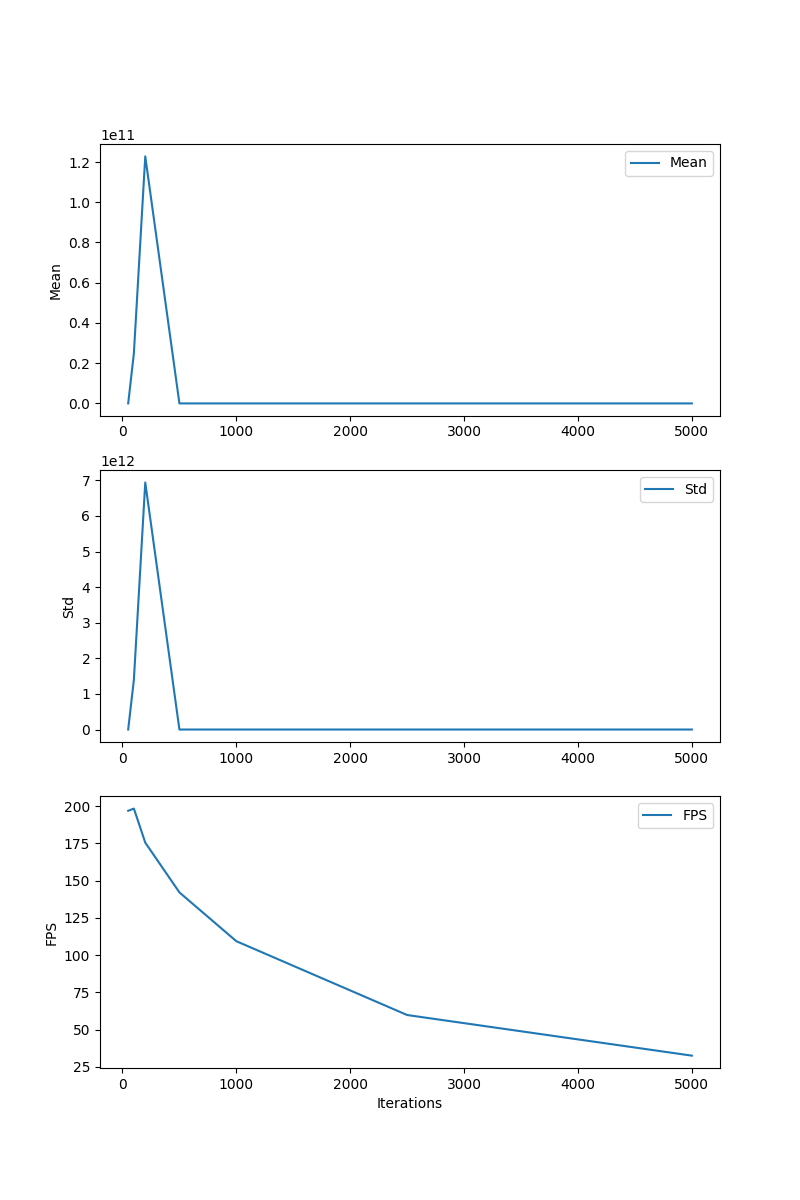
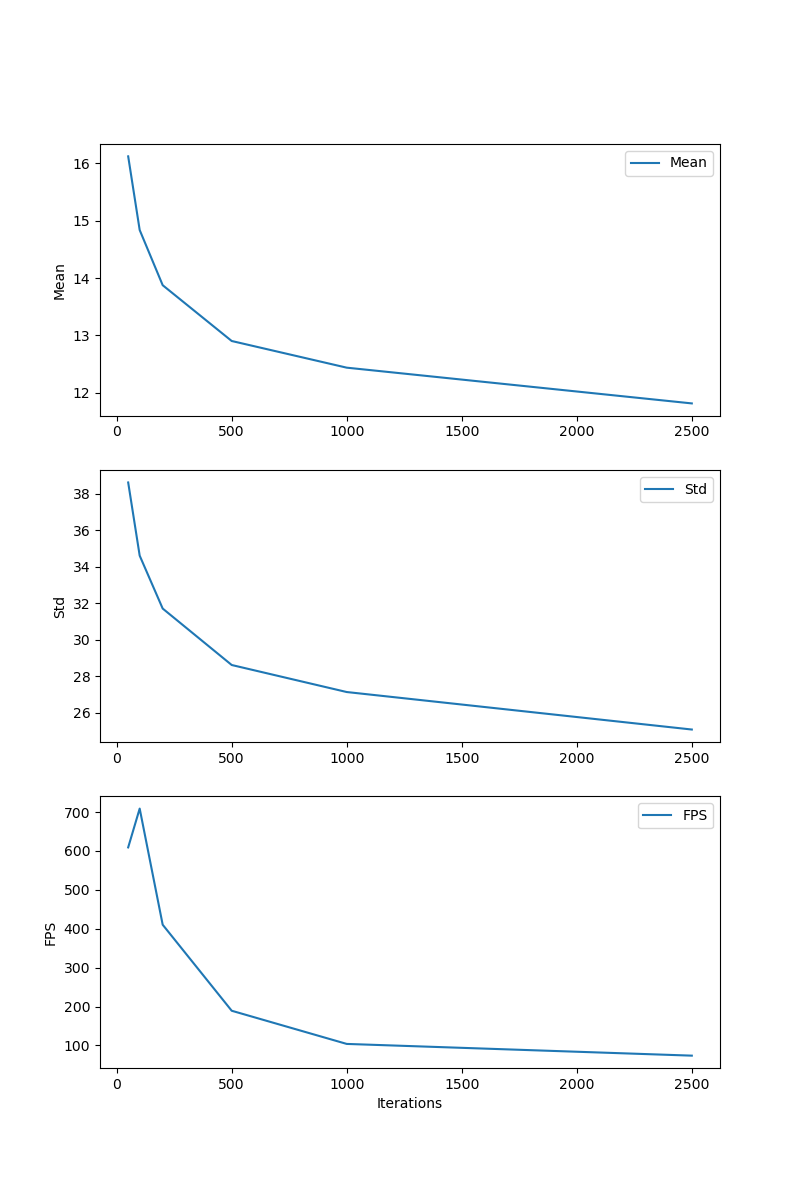
Update RANSAC algorithm and test.py

diff --git a/frontend_test/ransac.py b/frontend_test/ransac.py
@@ -60,21 +60,30 @@ def random_centerest(xyz, radial_list, iterations, debug=False):
     
     return best_vote
 
-@njit
-def accumulate_inliers(xyz, radial_list, iterations, best_vote, error):
-    xyz_inliers = []
-    radial_list_inliers = []
 
-    for itr in range(iterations):
-        i = random.randint(0, len(xyz) - 1)
+
+@njit(parallel=True)
+def accumulate_inliers(xyz, radial_list, iterations, best_vote, error, max_inliers=200):
+    xyz_inliers = np.zeros((max_inliers, 3))  
+    radial_list_inliers = np.zeros(max_inliers)
+    inlier_count = 0
+
+    indexes = np.arange(len(xyz))
+    np.random.shuffle(indexes)
+
+    for itr in prange(iterations):
+        if inlier_count >= max_inliers:
+            break  
+        i = indexes[itr % len(xyz)]
         p = xyz[i]
         r = radial_list[i]
         dist = np.sqrt((p[0] - best_vote[1]) ** 2 + (p[1] - best_vote[2]) ** 2 + (p[2] - best_vote[3]) ** 2)
         if abs(dist - r) < error:
-            xyz_inliers.append(p)
-            radial_list_inliers.append(r)
-    
-    return xyz_inliers, radial_list_inliers
+            xyz_inliers[inlier_count] = p
+            radial_list_inliers[inlier_count] = r
+            inlier_count += 1
+
+    return xyz_inliers[:inlier_count], radial_list_inliers[:inlier_count]
 
 
 def RANSAC_3D(xyz, radial_list, iterations=2000, epsilon = 5, iteration_split = 0.66, debug=False):
@@ -109,15 +118,14 @@ def RANSAC_3D(xyz, radial_list, iterations=2000, epsilon = 5, iteration_split = 
     if debug:
         print('\tRandom centerest 1: ' + str(best_vote))
 
-    num_iterations = 200
+    num_iterations = 400
 
     xyz_inliers, radial_list_inliers = accumulate_inliers(xyz_mm, radial_list_mm, num_iterations, best_vote, epsilon)
 
     if xyz_inliers == []:
-        xyz_inliers, radial_list_inliers = accumulate_inliers(xyz_mm, radial_list_mm, num_iterations, best_vote, epsilon+1)
-        if xyz_inliers == []:
-            print ('\tERROR: No inliers found')
-            return np.array([0, 0, 0])
+        while xyz_inliers == []:
+            xyz_inliers, radial_list_inliers = accumulate_inliers(xyz_mm, radial_list_mm, num_iterations, best_vote, epsilon+0.1)
+            
 
     center = np.array([best_vote[1], best_vote[2], best_vote[3]])
 

diff --git a/frontend_test/test.py b/frontend_test/test.py
@@ -85,8 +85,8 @@ def estimate_6d_pose_lm(opts, iterations=2000, epsilon=5):
         keypoint_offsets = []
 
         
-        pcd_load = o3d.io.read_point_cloud(opts.root_dataset + "LINEMOD/"+class_name+"/"+class_name+".ply")
-        xyz_load = np.asarray(pcd_load.points)
+        #pcd_load = o3d.io.read_point_cloud(opts.root_dataset + "LINEMOD/"+class_name+"/"+class_name+".ply")
+        #xyz_load = np.asarray(pcd_load.points)
         
         #keypoints = np.load(opts.root_dataset + "LINEMOD/"+class_name+"/Outside9.npy")
         keypoints=np.load(opts.root_dataset + "rkhs_estRadialMap/KeyGNet_kpts 1.npy")
@@ -99,13 +99,13 @@ def estimate_6d_pose_lm(opts, iterations=2000, epsilon=5):
 
         dataPath = rootpvPath + 'JPEGImages/'
 
-        max_radii_dm = np.zeros(3)
-        for i in range(3):
-            dsitances = ((xyz_load[:,0]-keypoints[i,0])**2+(xyz_load[:,1]-keypoints[i,1])**2+(xyz_load[:,2]-keypoints[i,2])**2)**0.5 
-            max_radii_dm[i] = dsitances.max()*10
+        #max_radii_dm = np.zeros(3)
+        #for i in range(3):
+        #    dsitances = ((xyz_load[:,0]-keypoints[i,0])**2+(xyz_load[:,1]-keypoints[i,1])**2+(xyz_load[:,2]-keypoints[i,2])**2)**0.5 
+        #    max_radii_dm[i] = dsitances.max()*10
 
-        if debug:
-            print ('max_radii_dm: ', max_radii_dm)
+        #if debug:
+        #    print ('max_radii_dm: ', max_radii_dm)
 
 
         for filename in (test_list if debug else tqdm(test_list, total=test_list_size, desc='Evaluating ' + class_name, unit='image', leave=False)):
@@ -251,7 +251,7 @@ if __name__ == "__main__":
     parser = argparse.ArgumentParser()
     parser.add_argument('--root_dataset',
                     type=str,
-                    default='../../datasets/test/')
+                    default='B:/datasets/')
 
     parser.add_argument('--frontend',
                     type=str,
